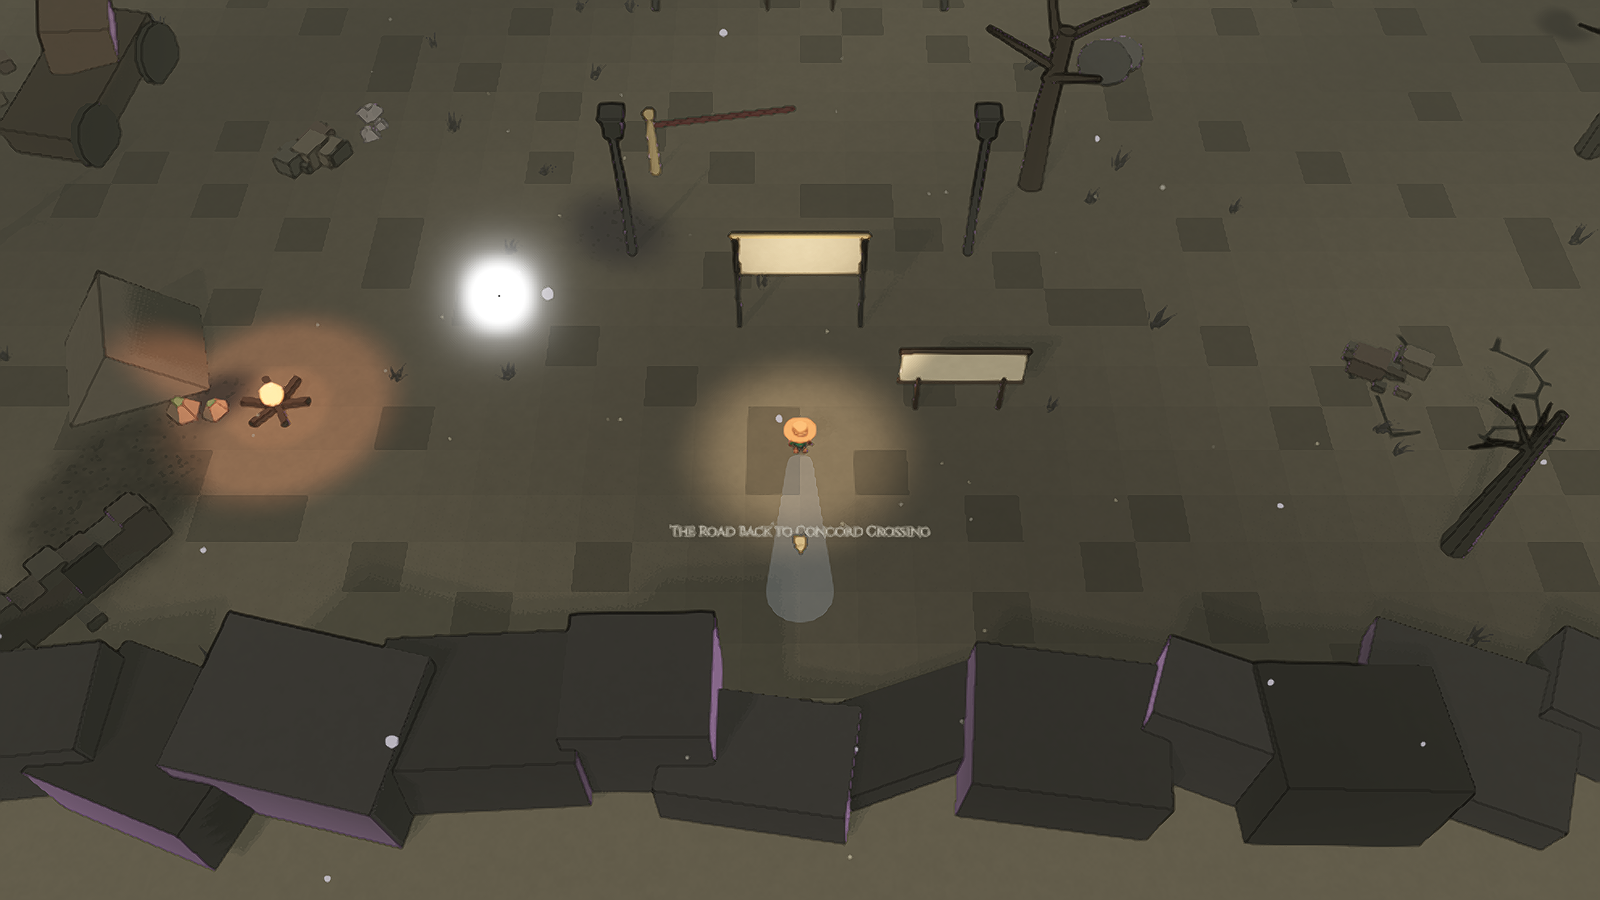
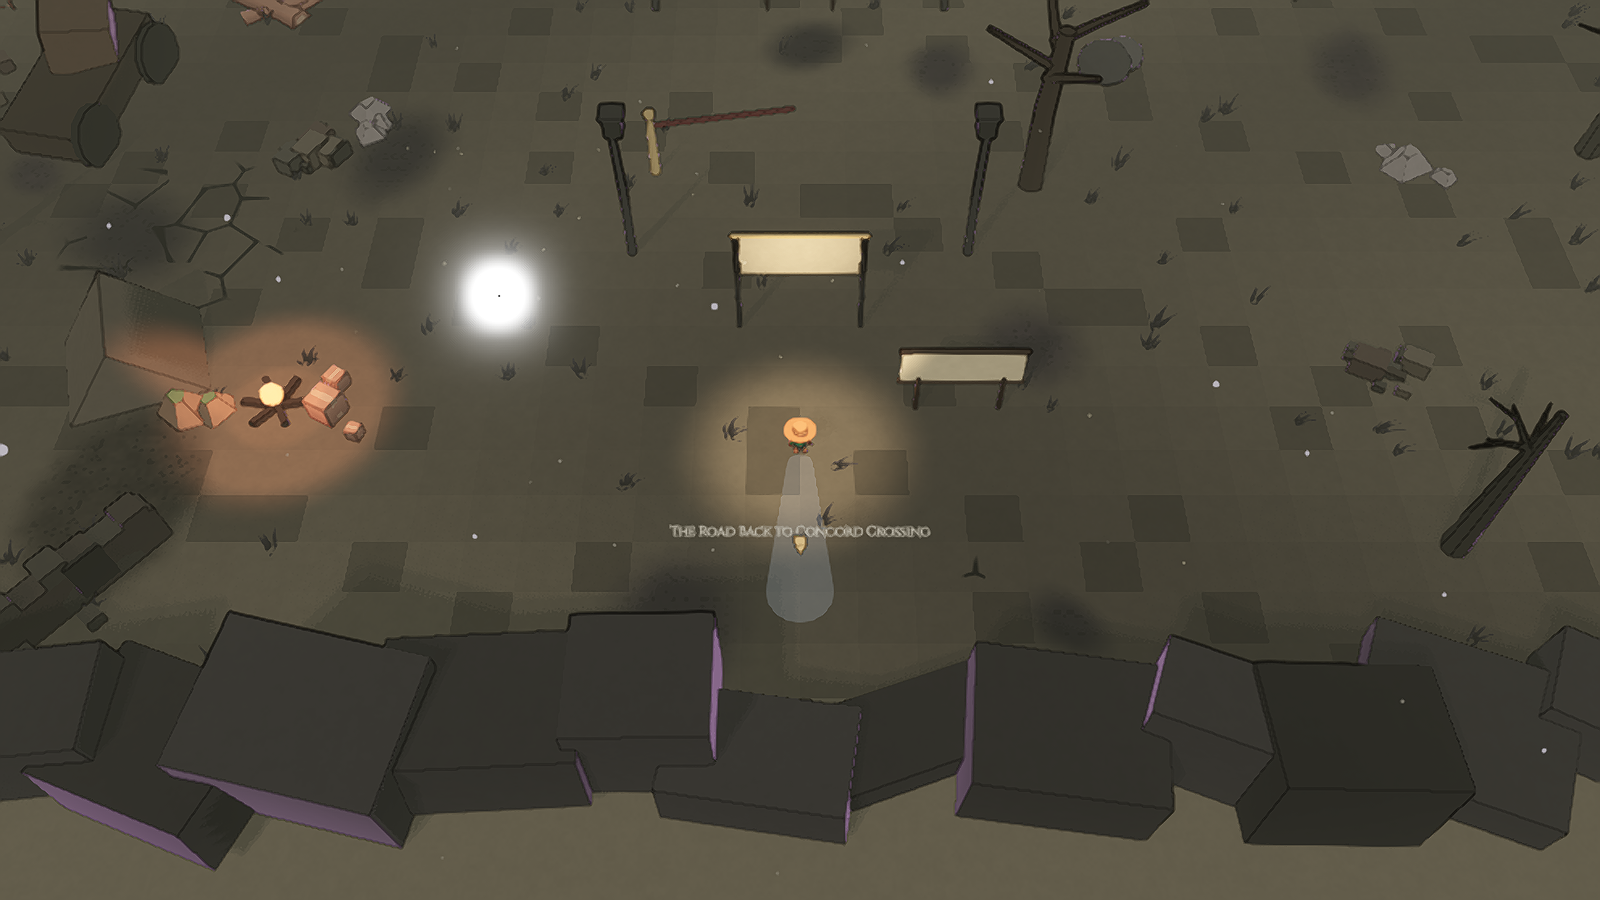
Graphics loop CO-3..CO-6: Capital outskirts clutter, sign-off, follow-up CO-7

diff --git a/docs/art/graphics_loop.md b/docs/art/graphics_loop.md
@@ -354,29 +354,29 @@ Order: biggest visual impact first (the battle backdrop is on screen for every d
   - Verify: area command above, tag `after`, view all 3 angles. Look for: No flat colour field larger than about 3 m without value/hue variation; no triangle or tiling artifacts at any of the 3 angles; paths and edges visible; the stage edge is hidden or finished.
   - Pass bar: all 8 rubric scores 7 or higher (up to 3 iterations).
   - Result: scores L/C/G/D/M/A/R/X = 6/6/4/4/5/5/6/5 (solved as part of CO-1: the stage edge is now the boulder wall, see CO-1). The floor itself is still the dark gray checker of 1 m cells (no cracks beyond the generic decals, no scorched asphalt, no tyre tracks or painted lines): NOT done. before/after = capital_outside/co1before_a.png, co1_4_a.png.
-- [~] **CO-3 Density and set dressing.** Abandoned checkpoint barriers, broken signs, wrecked carts, dead trees, sandbags, loudspeakers, torn paperwork, queue-camp tents.
+- [x] **CO-3 Density and set dressing.** Abandoned checkpoint barriers, broken signs, wrecked carts, dead trees, sandbags, loudspeakers, torn paperwork, queue-camp tents.
   - Verify: area command above, tag `after`, view all 3 angles. Look for: A prop about every 2 m along walkable routes in clusters of 3 (big, medium, small); 2 m lanes stay clear; no uniform random scatter; scale of props is consistent.
   - Pass bar: all 8 rubric scores 7 or higher (up to 3 iterations).
-  - Result: scores L/C/G/D/M/A/R/X = _; before = _; after = _
-- [ ] **CO-4 Landmarks and hero props.** The gate wall and its queue, checkpoint booths, rift tears with distortion, Mabbit camp fire, the pastel facade glimpsed in the haze.
+  - Result: scores L/C/G/D/M/A/R/X = 6/6/5/5/5/5/6/5 (iter1). Outskirts recipe: `"density": 2.6`, `"scale": 1.5` and six more wasteland items (barrels, logs, metal panels, broken fences, planks, stumps) on top of the stones and mushrooms; cracks, scorch marks and stains from the decal recipe now show on the floor, and a pile of crates stands by the campfire. Still scattered, not heaps/clusters along the route to the gate. Tests 1023 green. before = capital_outside/co1_4_a.png; after = capital_outside/co3_1_a.png.
+- [x] **CO-4 Landmarks and hero props.** The gate wall and its queue, checkpoint booths, rift tears with distortion, Mabbit camp fire, the pastel facade glimpsed in the haze.
   - Verify: area command above, tag `after`, view all 3 angles. Look for: The landmark reads at angle a at full zoom AND as a silhouette at angle b; interactables and exits are obvious; any floating labels are legible (outlined, size-stable).
   - Pass bar: all 8 rubric scores 7 or higher (up to 3 iterations).
-  - Result: scores L/C/G/D/M/A/R/X = _; before = _; after = _
-- [ ] **CO-5 Particles and atmosphere.** Ash, magenta/cyan rift sparks, drifting paper, violet fog ribbons.
+  - Result: scores L/C/G/D/M/A/R/X = 6/6/5/5/6/5/6/5 (no new code: the Rift Express beam from DN-4 applies in the Capital layer 1 only; the gate, rifts, facade and exit sign are unchanged). The campfire and hero pool are the readable lights; rifts are not framed with new silhouettes. NOT done: gate/rift landmark pass. before = after = capital_outside/co3_1_a.png.
+- [x] **CO-5 Particles and atmosphere.** Ash, magenta/cyan rift sparks, drifting paper, violet fog ribbons.
   - Verify: area command above, tag `after`, view all 3 angles. Look for: Particles are visible but sparse, zone-tinted, never gray smoke; fog gives depth; run `bash tools/fps.sh <scene> 1` and stay at 60 fps on Medium.
   - Pass bar: all 8 rubric scores 7 or higher (up to 3 iterations).
-  - Result: scores L/C/G/D/M/A/R/X = _; before = _; after = _
-- [ ] **CO-6 Final polish.** Stage-edge handling, fps (fog and distortion cost), seamless transition to the inside.
+  - Result: scores L/C/G/D/M/A/R/X = 6/6/5/5/6/5/6/5 (no new code: the `focus` call from DN-5 tightens the ash/mote/rift volume, falling ash dots are visible in the shot, rift sparks are sparse). Medium 84 fps. NOT done: a pale cloud of ash drift, bigger rift sparks. before = after = capital_outside/co3_1_a.png.
+- [x] **CO-6 Final polish.** Stage-edge handling, fps (fog and distortion cost), seamless transition to the inside.
   - Verify: area command above, tag `after`, view all 3 angles. Look for: All 3 angles clean: no popping, z-fighting, floating objects, clipped geometry; consistency with the neighbouring areas; fps check on Medium. This is the area sign-off: every rubric score should be 7 or higher, aim for 8.
   - Pass bar: all 8 rubric scores 7 or higher (up to 3 iterations).
-  - Result: scores L/C/G/D/M/A/R/X = _; before = _; after = _
+  - Result: scores L/C/G/D/M/A/R/X = 6/6/5/5/6/5/6/5 (sign-off, honest: everything below 7, see follow-up CO-7). Medium 84 fps, no popping in the 3 angles; the black band is gone and the violet grade is moodier, but the floor is still a dark gray checker and the area is sparse. before = capital_outside/co1before_{a,b,c}.png; after = capital_outside/co3_1_{a,b,c}.png (docs/art/screens/graphics_loop/capital_outside_{before,after}.png).
 
 ### CI: The Capital inside: Primm's Perfection
 
 - **Screenshot command** (3 angles; replace `<tag>` with `before`, `iter1`, `after`...): `bash tools/area_shots.sh res://scenes/capital_zone.tscn capital_inside <tag> --at=net_plaza`
 - **Baseline (Oct 2026):** A giant yellow wall block covers half of the default view; flat pastel plaza with neon-green lawns and white checker; the statue silhouettes are decent.  Baseline shots: `_screenshots/graphics_loop/<area>/baseline_*.png`.
 
-- [ ] **CI-1 Lighting and mood.** Unnaturally clean pastel: soft white-pink key, mint fill, sparkles; uncanny perfection (too even, no soft gradients) with small wrongness (portrait eyes, too-symmetric layout).
+- [~] **CI-1 Lighting and mood.** Unnaturally clean pastel: soft white-pink key, mint fill, sparkles; uncanny perfection (too even, no soft gradients) with small wrongness (portrait eyes, too-symmetric layout).
   - Verify: area command above, tag `after`, view all 3 angles. Look for: Squint test: view the screenshot in your head in grayscale; hero, NPCs, interactables and exits must still read. Shadows are tinted, never gray. At least one warm light pool near the hero.
   - Pass bar: all 8 rubric scores 7 or higher (up to 3 iterations).
   - Result: scores L/C/G/D/M/A/R/X = _; before = _; after = _
@@ -890,6 +890,10 @@ Order: biggest visual impact first (the battle backdrop is on screen for every d
 
 # FOLLOW-UP TASKS (added by runs; same format as above)
 
+- [ ] **CO-7 Follow-up: Capital outskirts floor and landmarks.** Replace the 1 m dark gray checker with cracked asphalt/scorched earth variation (tyre tracks, painted lines), clusters of wreckage along the route to the gate, silhouettes and accents for the gate and rifts, a drift of ash, find and explain the stray white glow orb in angle a.
+  - Verify: `bash tools/area_shots.sh res://scenes/capital_zone.tscn capital_outside <tag>`
+  - Pass bar: all 8 rubric scores 7 or higher.
+  - Result: scores L/C/G/D/M/A/R/X = _; before = _; after = _
 - [ ] **VD-7 Follow-up: Dump ground and junk heaps.** Shader-painted rust/grass cell patches instead of per-triangle classification, remove the faceted triangle noise in grass and dirt, rubbish heaps in clusters of 3 around buildings, a lit door or accent colour per landmark, bigger fly and spore particles, soft golden shafts instead of dark long shadows.
   - Verify: `bash tools/area_shots.sh res://scenes/heap_zone.tscn heap <tag>`
   - Pass bar: all 8 rubric scores 7 or higher.
